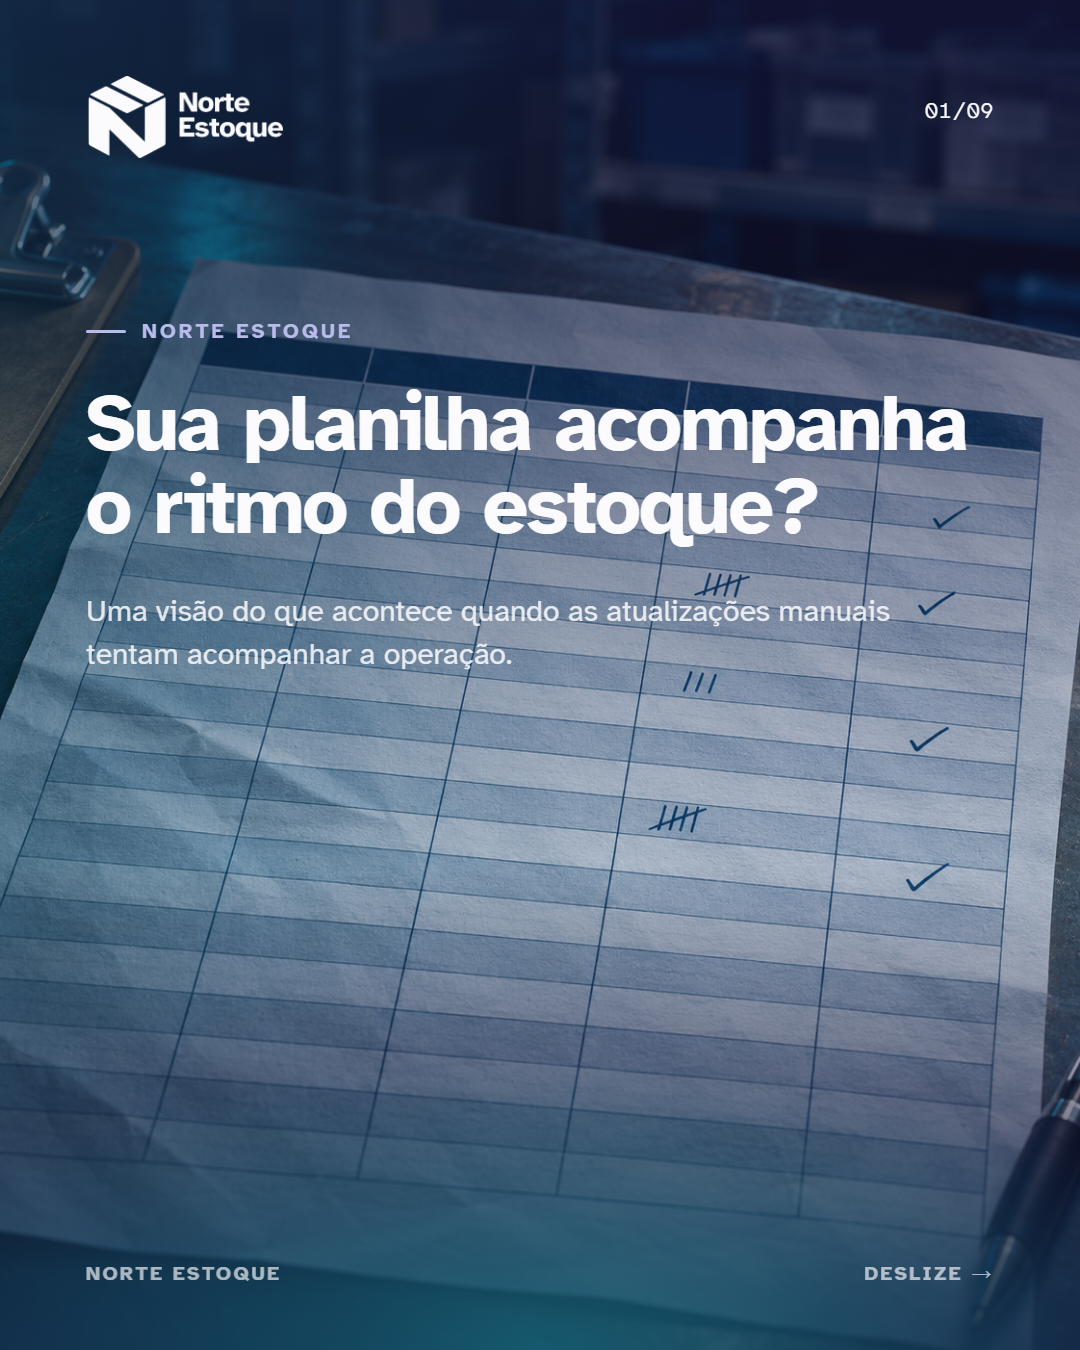
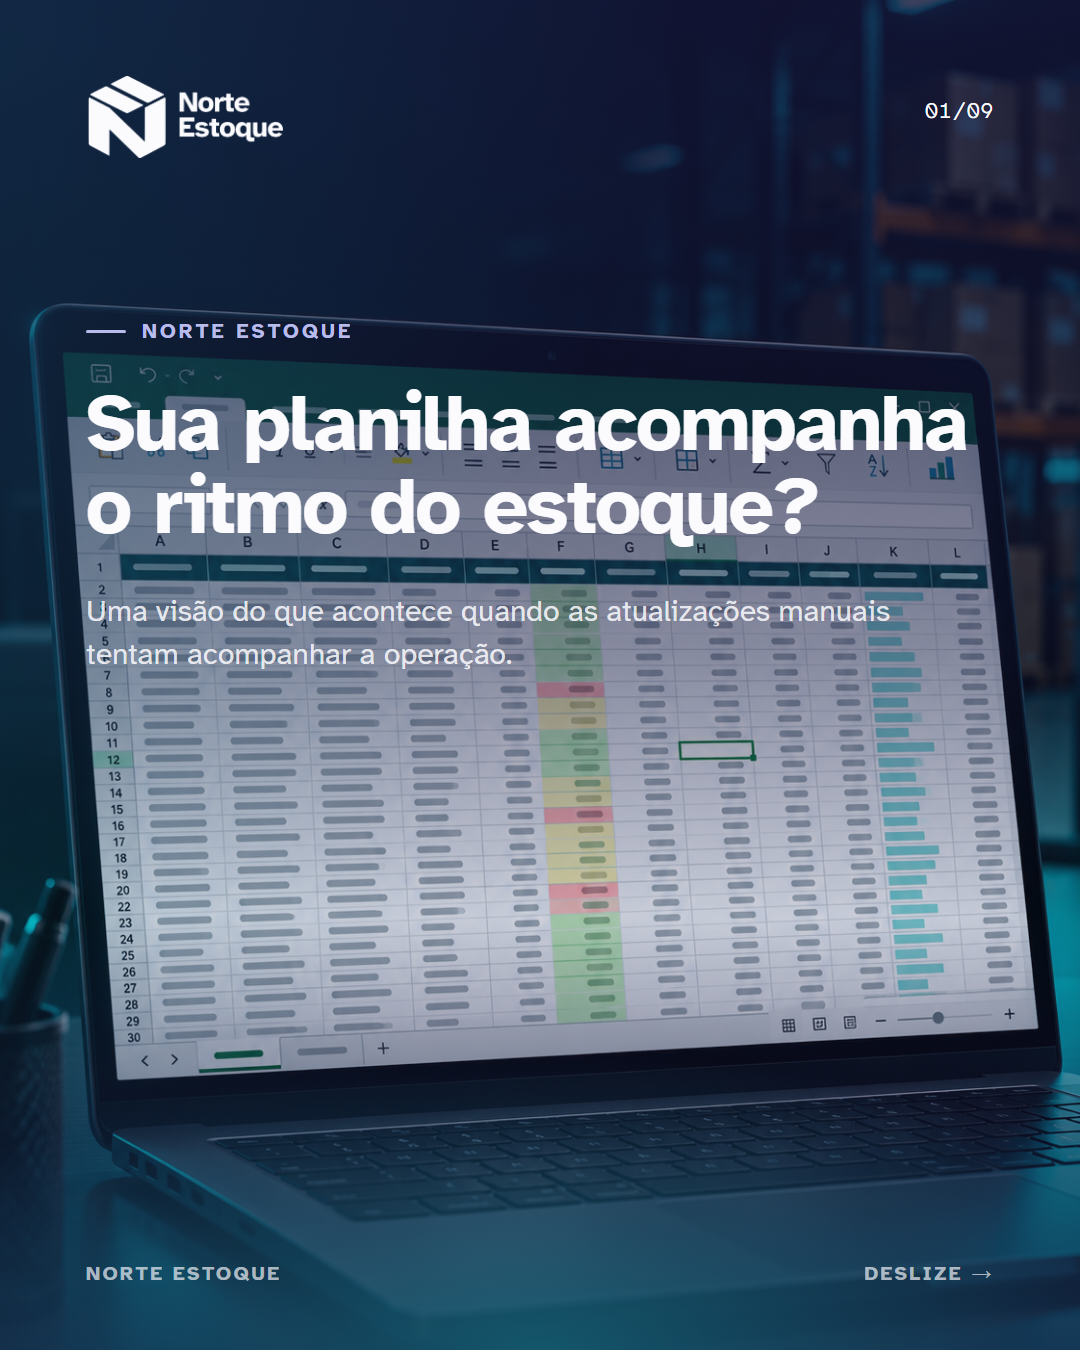
Clarify digital spreadsheet cover style

diff --git a/src/templates/NorteEstoquePlanilha.tsx b/src/templates/NorteEstoquePlanilha.tsx
@@ -8,7 +8,7 @@ const LOGO = kit('01-logos/norte-estoque/horizontal/norte-estoque_horizontal_bra
 const TELA_RESUMO = kit('08-recursos/telas-oficiais/estoque/d-home.png');
 const W = 1080;
 const H = 1350;
-const COVER_BG = staticFile('norte-estoque-planilha-cover.png');
+const COVER_BG = staticFile('norte-estoque-planilha-cover-v2.png');
 
 const Shell: React.FC<{n: number; tone: 'dark' | 'light' | 'product'; eyebrow: string; title: string; support: string; titleSize?: number; supportTop?: number; children: React.ReactNode}> = ({n, tone, eyebrow, title, support, titleSize = 72, supportTop = 466, children}) => (
   <Produto id="estoque">
@@ -28,7 +28,7 @@ const Cover: React.FC = () => {
   ensurePostLoaded();
   return <Produto id="estoque"><AbsoluteFill>
     <Img src={COVER_BG} style={{position:'absolute',inset:0,width:'100%',height:'100%',objectFit:'cover',objectPosition:'center'}}/>
-    <AbsoluteFill style={{background:'linear-gradient(180deg,rgba(20,22,58,.82) 0%,rgba(20,22,58,.38) 38%,rgba(20,22,58,.14) 64%,rgba(20,22,58,.87) 100%)'}}/>
+    <AbsoluteFill style={{background:'linear-gradient(180deg,rgba(20,22,58,.82) 0%,rgba(20,22,58,.62) 30%,rgba(20,22,58,.48) 48%,rgba(20,22,58,.18) 68%,rgba(20,22,58,.87) 100%)'}}/>
     <AbsoluteFill style={{background:'radial-gradient(ellipse 88% 28% at 50% 100%,rgba(22,142,154,.55),transparent 78%),linear-gradient(105deg,rgba(22,142,154,.16),transparent 48%)'}}/>
     <Img src={LOGO} style={{position:'absolute',left:PAD,top:76,height:82,width:'auto'}}/><span style={{position:'absolute',right:PAD,top:96,fontFamily:MONO,fontSize:22,color:WHITE}}>01/09</span>
     <Eyebrow tone="product" top={318}>NORTE ESTOQUE</Eyebrow><Title tone="product" top={382} size={80}>Sua planilha acompanha o ritmo do estoque?</Title><Support tone="product" top={590} width={860} size={30}>Uma visão do que acontece quando as atualizações manuais tentam acompanhar a operação.</Support>

diff --git a/docs/estilos-de-capa/norte-estoque-fotografica-planilha-digital.md b/docs/estilos-de-capa/norte-estoque-fotografica-planilha-digital.md
@@ -1,0 +1,17 @@
+# Estilo de capa: planilha digital fotográfica
+
+Direção visual alternativa para capas sobre controle de estoque em planilhas. É um estilo nomeado e reutilizável, não o padrão de todas as próximas capas.
+
+## Elementos
+
+- Fotografia vertical em tela cheia com notebook aberto e a planilha claramente visível na tela
+- Interface reconhecível por grade, linhas, colunas, barra de fórmulas e célula selecionada
+- Ambiente escuro com azul-marinho e reflexos azul-petróleo, mantendo a identidade do Norte Estoque
+- Área superior mais limpa para marca e headline; sombra azul graduada para garantir leitura do texto
+- Sem folhas impressas, pranchetas ou planilhas soltas: o foco é uma planilha digital em uso
+
+## Aplicação nesta peça
+
+O estilo está aplicado à capa do carrossel **Norte Estoque — Planilha no controle**. A imagem-fonte está em `public/norte-estoque-planilha-cover-v2.png`; o tratamento de contraste e os textos ficam no componente `Cover` de `src/templates/NorteEstoquePlanilha.tsx`.
+
+Para outras capas, escolher este estilo apenas quando o conceito pedir uma fotografia de tela ou planilha digital. Ele não substitui as outras linguagens de capa da marca.

diff --git a/conteudo ntb/02-carrosseis/Norte Estoque - Planilha no controle/LEIA-ME.md b/conteudo ntb/02-carrosseis/Norte Estoque - Planilha no controle/LEIA-ME.md
@@ -4,4 +4,4 @@ Prévia visual do carrossel que começa pelos atritos de organizar o estoque em 
 
 Os textos visíveis são rascunhos de composição. A copy será fechada em etapa posterior.
 
-O carrossel tem nove slides e três animações curtas nos slides 3, 5 e 7. A capa usa uma imagem fotográfica criada para esta peça; os elementos de planilha e dados não representam dados reais.
+O carrossel tem nove slides e três animações curtas nos slides 3, 5 e 7. A capa usa o estilo alternativo **planilha digital fotográfica**, com uma planilha aberta na tela de um notebook; esta direção está documentada em `docs/estilos-de-capa/norte-estoque-fotografica-planilha-digital.md` e não passa a ser o padrão das próximas capas. A interface da imagem é ilustrativa e não representa dados reais.
